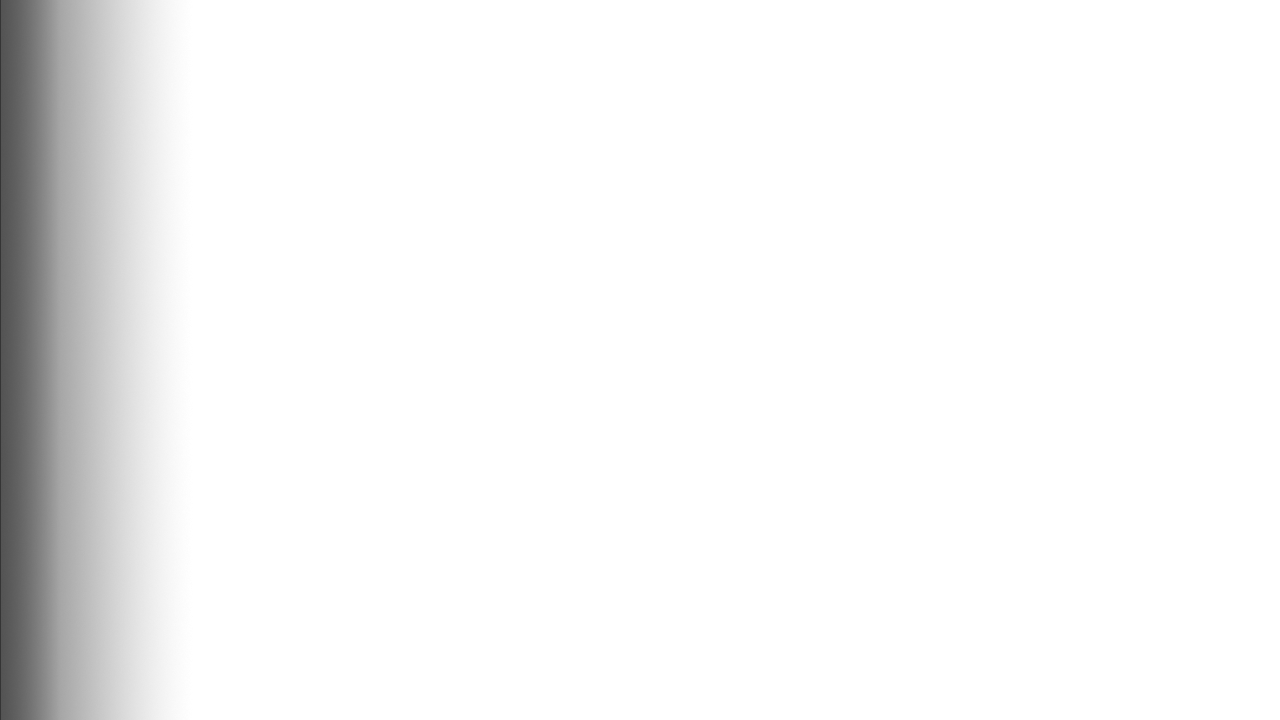
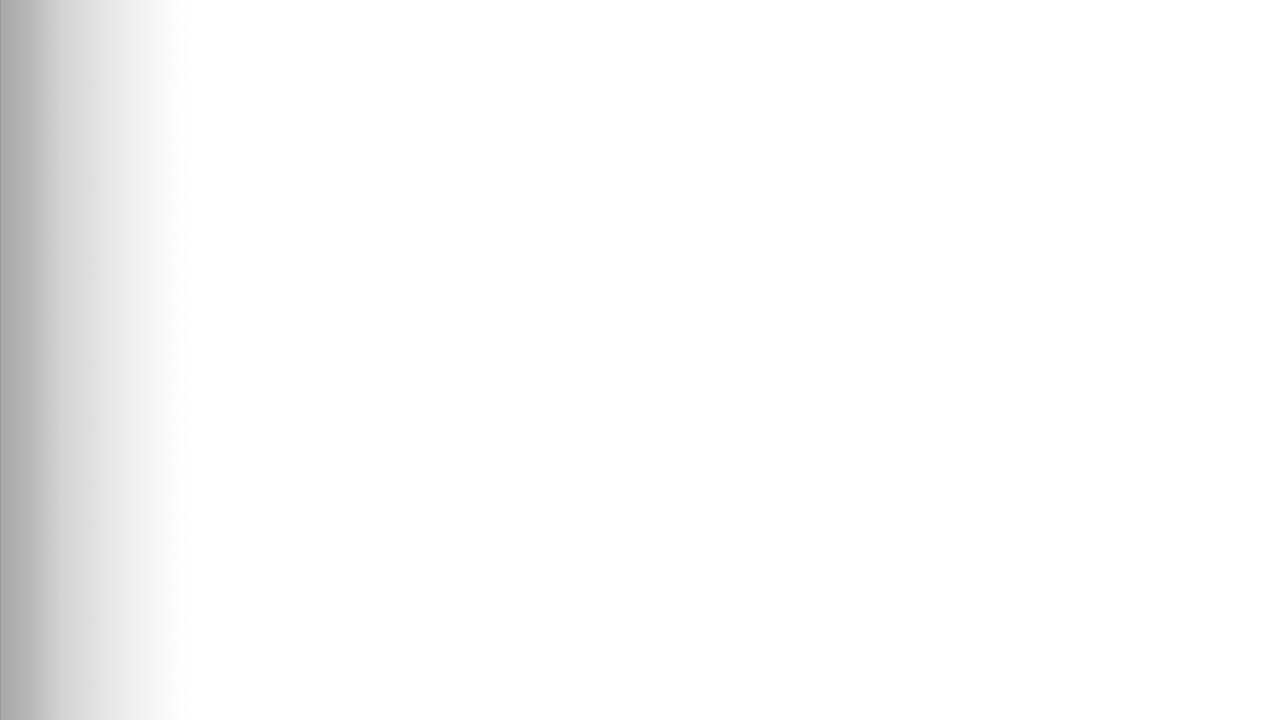
MA v.1.0.5
라이팅 구현

Changed region(s): [[0.0, 0.0, 0.0938, 1.0]]

diff --git a/script.js b/script.js
@@ -1,10 +1,17 @@
-var btnNext, btnPrev, idxIntro1, idxIntro2, idxWork1, idxWork2;
+var idxIntro1, idxIntro2, idxWork1, idxWork2, light;
+var x, y;
+var lightAlpha = 1;
+var lightW = 1920;
+var lightH = 1080;
+var lightX = -960;
+var lightY = -60;
+var flagLight = "init";
 
 var pages = 5;
 var arrPage = new Array();
 var arrContent = new Array();
 
-var currentPage=0;
+var currentPage = 0;
 //페이지 넘김 조절 플래그
 var flag = "none";
 var multiFlag = "none";
@@ -13,8 +20,42 @@ var num;
 var contentFlag = false;
 
 function animation(){
+	light.style.width = lightW+"px";
+	light.style.height = lightH+"px";
+	light.style.marginLeft = lightX+"px";
+	light.style.marginTop = lightY+"px";
+	if(flagLight=="init"){
+		lightAlpha-=0.01;
+		if(lightAlpha<0){
+			lightAlpha=0;
+			flagLight="none";
+		}
+		light.style.backgroundColor = "rgba(0,0,0,"+lightAlpha+")";
+	} else if(flagLight=="in"){
+		lightW+=16;
+		lightH+=9;
+		lightX-=8;
+		lightY-=4.5;
+		if(lightW>3840)  lightW = 3840;
+		if(lightH>2160)  lightH = 2160;
+		if(lightX<-1920) lightX = -1920;
+		if(lightY<-600)  lightY = -600;
+		if(lightW==3840 && lightH==2160 && lightX== -1920 && lightY== -600) flagLight = "none";
+	} else if(flagLight=="out"){
+		lightW-=32;
+		lightH-=18;
+		lightX+=16;
+		lightY+=9;
+		if(lightW<1920)  lightW = 1920;
+		if(lightH<1080)  lightH = 1080;
+		if(lightX>-960) lightX = -960;
+		if(lightY>-60)  lightY = -60;
+		if(lightW==1920 && lightH==1080 && lightX== -960 && lightY== -50) flagLight = "none";
+	}
+
 	for(var i=0; i<pages; i++){
 		if( flag != "prev" && arrPage[i].flag=="next"){
+			if(i==0) flagLight="in";
 			//여러번 클릭해 넘길때 페이지넘김플래그와 콘텐츠플래그가 가장 마지막 페이지 넘김이 완료될때까지 유지
 			flag = "next";
 			contentFlag = false;
@@ -36,7 +77,11 @@ function animation(){
 						arrPage[i].accel = 0.1;
 					}
 					arrPage[i].page.style.zIndex = i;
-				}			
+					//페이지 앞뒷면 전환효과
+					if(i == 0)
+						arrPage[i].page.childNodes[0].style.display="none";
+
+				}
 				arrPage[i].deg -= arrPage[i].accel ;
 				//페이지가 완전히 넘어가면 가속도 초기화, 페이지 넘김 종료, 콘텐츠 플래그 실행
 				if(arrPage[i].deg<=-180){
@@ -64,13 +109,20 @@ function animation(){
 				arrPage[i].trans=1;
 				//페이지 넘김
 				if(arrPage[i].deg<-82.7){
-					arrPage[i].accel +=0.05 ;
+					arrPage[i].accel +=0.05;
 				} else {
+					if(i==0) flagLight="out";
+					
 					arrPage[i].accel -=0.02 ;
 					if(arrPage[i].accel <= 0.1){
 						arrPage[i].accel = 0.1;
 					}
 					arrPage[i].page.style.zIndex = pages-i;
+					//페이지 앞뒷면 전환효과
+					if(i == 0)
+						arrPage[i].page.childNodes[0].style.display="block";
+
+						
 				}			
 				arrPage[i].deg += arrPage[i].accel ;
 				//페이지가 완전히 넘어가면 가속도 초기화, 페이지 넘김 종료, 콘텐츠 플래그 실행
@@ -100,46 +152,6 @@ function animation(){
 	}
 	requestAnimationFrame(animation);
 }
-
-function logic(){
-	btnNext.onclick = function(){
-		if(currentPage<pages-1 && multiFlag=="none"){
-			arrPage[currentPage].flag = "next";
-			currentPage++;
-		}
-	};
-	btnPrev.onclick = function(){
-		if(currentPage>0 && multiFlag=="none"){
-			arrPage[currentPage-1].flag = "prev";
-			currentPage--;
-		}
-	};
-	idxIntro1.onclick = function(){
-		if(currentPage==0){
-			multiFlag = "intro1";
-			if(arrPage[currentPage].className!="nextPage" && (flag=="none" || flag=="next")){
-				arrPage[0].flag = "next";
-				currentPage=1;
-			}
-		}
-	};
-	idxWork1.onclick = function(){
-		if(currentPage<2 && flag=="none"){
-			multiFlag="work1";
-
-		}
-	};
-	idxIntro2.onclick = function(){
-		if(currentPage>1 && flag=="none"){
-			multiFlag="intro2";
-		}
-	};
-	idxWork2.onclick = function(){
-		if(currentPage>2 && flag=="none"){
-			multiFlag="work2";
-		}
-	};
-};
 
 function multiAnim(){
 	if(multiFlag=="work1"){
@@ -194,22 +206,62 @@ function pageSetting(_i){
 	objC.alpha = 0;
 	arrContent.push(objC);
 }
+
 window.onload = function(){
 	for(var i=0; i<pages; i++){
 		pageSetting(i);
 	}
 	arrContent[0].alpha=1;
-	btnNext = document.querySelector("#nextBtn");
-	btnPrev = document.querySelector("#prevBtn");
-	btnNext.style["-webkit-transform"] = "translate3d(0px, 0px, 1px)";
-	btnPrev.style["-webkit-transform"] = "translate3d(0px, 0px, 1px)";
 
 	idxIntro1 = document.querySelector("#intro1");
 	idxIntro2 = document.querySelector("#intro2");
 	idxWork1 = document.querySelector("#work1");
 	idxWork2 = document.querySelector("#work2");
+	light = document.querySelector("#black");
 
-	logic();
 	animation();
 	setInterval(multiAnim, 100);
 };
+
+window.onmousemove = function(e){
+	if(arrPage[pages-1] !=undefined){
+		var margin = arrPage[pages-1].page.getBoundingClientRect();
+		x = Math.floor(e.clientX - margin.left);
+		y = Math.floor(e.clientY - margin.top);
+	}
+}
+window.onmousedown = function(e){
+	if(flag!="prev" && x>0 && x<1280 && y>0 && y<720){
+		if(currentPage<pages-1 && multiFlag=="none"){
+			arrPage[currentPage].flag = "next";
+			currentPage++;
+		}
+	}
+	if(flag!="next" && x>-1280 && x<0 && y>0 && y<720){
+	 	if(currentPage>0 && multiFlag=="none"){
+	 		arrPage[currentPage-1].flag = "prev";
+	 		currentPage--;
+	 	}
+	}
+	if(flag=="none" && x>330 && x<630 && y>=-60 && y<0){
+		if(currentPage<2 && flag=="none"){
+			multiFlag="work1";
+		} else if(currentPage>2 && flag=="none"){
+			multiFlag="work2";
+		}
+	}
+	if(flag=="none" && x>40 && x<340 && y>=-60 && y<0){
+		if(currentPage==0){
+			multiFlag = "intro1";
+			if(arrPage[currentPage].className!="nextPage" && (flag=="none" || flag=="next")){
+				arrPage[0].flag = "next";
+				currentPage=1;
+			}
+		} else if(currentPage>1 && flag=="none"){
+			multiFlag="intro2";
+		}
+	}
+}
+window.onmousewheel = function(){
+	return;
+}

diff --git a/style.css b/style.css
@@ -13,12 +13,11 @@ body{
 	
 }
 #page0{
-	background-image: url(img/cover.jpg);
 	-webkit-transform-style: preserve-3d;
 	-webkit-transform-origin:0px 0px;
 	font-size: 72px;
 	color:white;
-	background-color: black;
+	background-color: #2c2119;
 	position: absolute;
 	top:60px;
 	width:1280px;
@@ -86,6 +85,8 @@ body{
 	height:576px;
 }
 #page4{
+	-webkit-transform-style: preserve-3d;
+	-webkit-box-shadow: 0px 0 100px 30px rgba(0, 0, 0, 0.6);
 	color:black;
 	background-color:lightgrey;
 	position: absolute;
@@ -99,58 +100,63 @@ body{
 }
 
 #intro1{
-	background-image: url(img/bg_current.png);
+	-webkit-transform-style: preserve-3d;
 	-webkit-mask-image: url(img/index_mask.png);
-	-webkit-mask-size: 300px 60px;
+	-webkit-mask-size: 300px 70px;
 	font-size: 36px;
 	text-align: center;
 	color:black;
 	background-color: white;
 	position: absolute;
 	top:-60px;
+	left:40px;
 	width:300px;
-	height:60px;
+	height:70px;
+	-webkit-transform : translate3d(0px, 0px, -1px);
 	-webkit-backface-visibility:hidden;
 }
 #work1{
 	-webkit-mask-image: url(img/index_mask.png);
-	-webkit-mask-size: 300px 60px;
+	-webkit-mask-size: 300px 70px;
 	font-size: 36px;
 	text-align: center;
 	color:black;
 	background-color: white;
 	position: absolute;
 	top:-60px;
-	left:300px;
+	left:330px;
 	width:300px;
-	height:65px;
+	height:70px;
+	-webkit-transform : translate3d(0px, 0px, -1px);
 	-webkit-backface-visibility:hidden;
 }
 #intro2{
 	-webkit-mask-image: url(img/index_mask.png);
-	-webkit-mask-size: 300px 60px;
-	background-image: url(img/bg_current.png);
+	-webkit-mask-size: 300px 70px;
 	font-size: 36px;
 	text-align: center;
 	color:black;
-	background-color: grey;	
+	background-color: lightgrey;	
 	position: absolute;
 	top:-60px;
+	left:40px;
 	width:300px;
-	height:60px;
+	height:70px;
+	-webkit-transform : translate3d(0px, 0px, -1px);
 }
 #work2{
 	-webkit-mask-image: url(img/index_mask.png);
-	-webkit-mask-size: 300px 60px;
+	-webkit-mask-size: 300px 70px;
 	font-size: 36px;
 	text-align: center;
 	color:black;
-	background-color: grey;
+	background-color: lightgrey;
 	position: absolute;
 	top:-60px;
-	left:300px;
+	left:330px;
 	width:300px;
-	height:60px;
+	height:70px;
+	-webkit-transform : translate3d(0px, 0px, -1px);
 }
 
 .multiply{
@@ -159,7 +165,6 @@ body{
 
 #nextBtn{
 	-webkit-transform-style: preserve-3d;
-	-webkit-transform: translate3d(0px, 0px, 0.5px);
 	position: absolute;
 	top:60px;
 	width:1280px;
@@ -167,9 +172,19 @@ body{
 }
 #prevBtn{
 	-webkit-transform-style: preserve-3d;
-	-webkit-transform: translate3d(0px, 0px, 0.5px);
 	position: absolute;
 	left:-1280px;
 	width:1280px;
 	height:780px;
+}
+#black{
+	position: absolute;
+	left:50%;
+	top:5%;
+	margin-left: -1920px;
+	margin-top: -600px;
+	width: 3840px;
+	height:2160px;
+	background-color: rgba(0,0,0,1);
+	opacity: 0.85;
 }

diff --git a/index.html b/index.html
@@ -6,7 +6,7 @@
 		<link type="text/css" rel="stylesheet" href="style.css" />
 		<script type="text/javascript" src="script.js"></script>
 	</head>
-	<body oncontextmenu="return false" onselectstart="return false">
+	<body scroll="no" oncontextmenu="return false" onselectstart="return false">
 		<div id="book">
 			<div id="page4">
 				<div id="work2">Work</div>
@@ -24,17 +24,14 @@
 				<div id="content2">2</div>
 			</div>
 			<div id="page1">
-				<img src="img/bg_current.png" class="multiply"/>
 				<div id="intro1">Intro</div>
-				
+				<img src="img/bg_current.png" class="multiply"/>
 				<div id="content1">1</div>
 			</div>
-			<div id="page0">
-				<img src="img/bg_current.png" class="multiply"/>
+			<div id="page0"><img src="img/cover.png"/>
 				<div id="content0"></div>
 			</div>
-			<div id="nextBtn"></div>
-			<div id="prevBtn"></div>
 		</div>
+	<img src="img/light_mask2.png" id="black"></div>
 	</body>
 </html>
